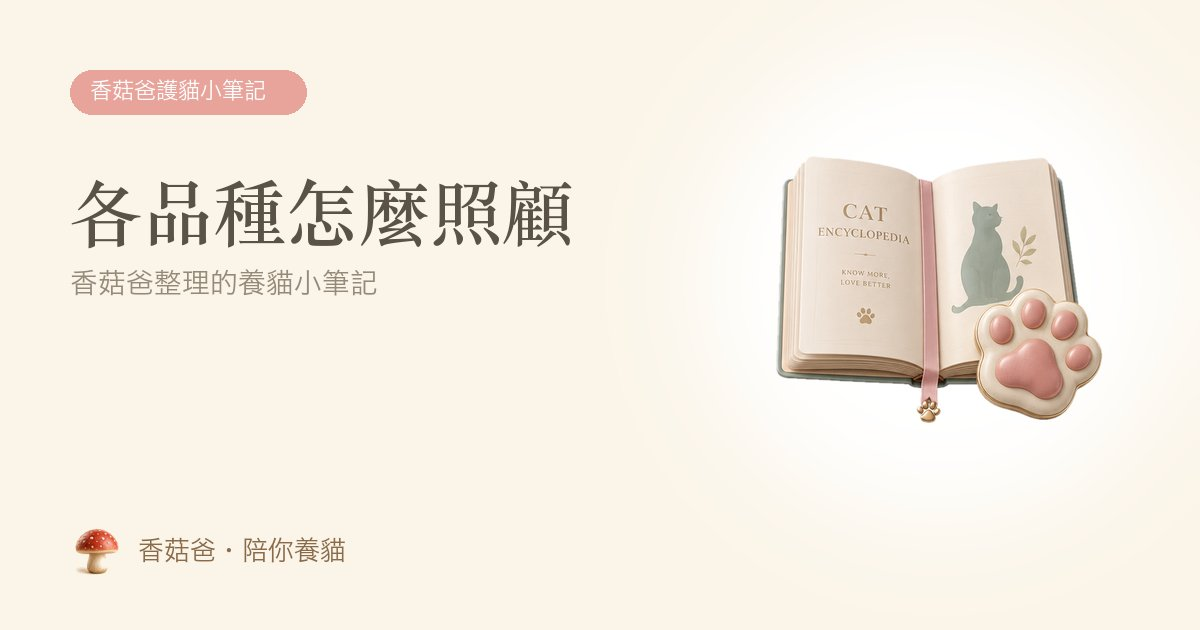
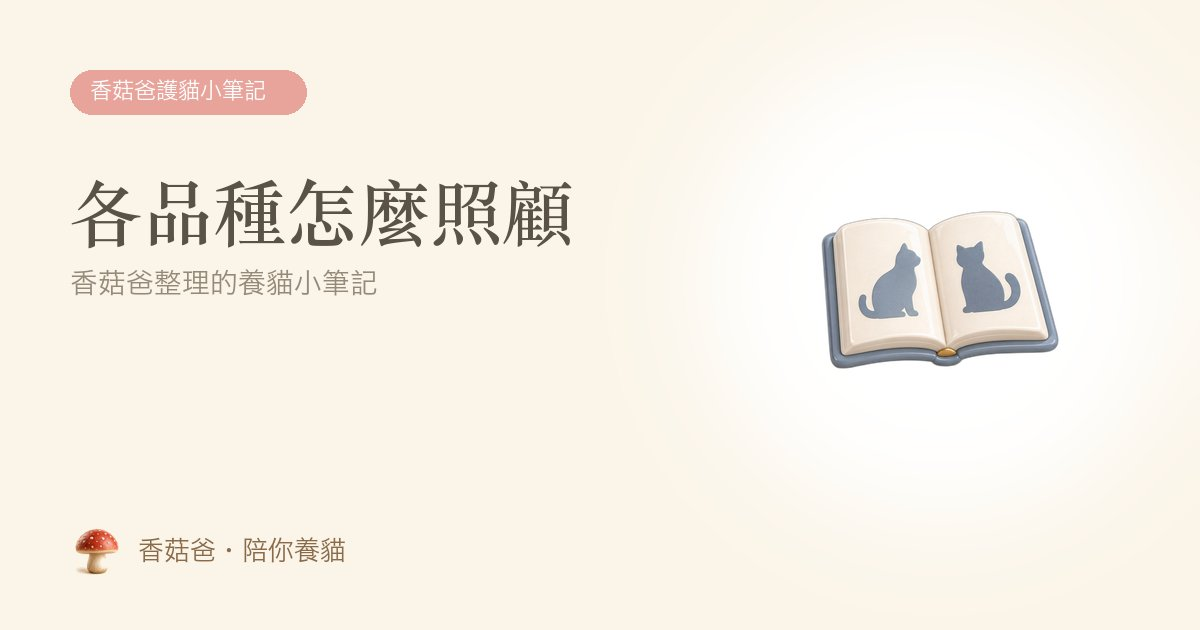
攻略剩下 5 個舊圖示＋熟齡貓 換成藍灰 3D 圖示，封面圖同步更新

Changed region(s): [[0.6475, 0.2413, 0.925, 0.6635]]

diff --git a/index.html b/index.html
@@ -786,7 +786,7 @@
         <section class="tab-panel" id="tab-wiki">
             <div class="section-title">🆕 最近更新 <small style="font-weight:600;color:var(--text-soft);font-size:11px;margin-left:4px">10/31</small></div>
             <div class="wk-new">
-                <a href="senior.html"><img src="icons/wk/age-care.png?v=1" alt="" loading="lazy"><b>熟齡貓 7 歲以後</b></a>
+                <a href="senior.html"><img src="icons/wk/senior.png?v=1" alt="" loading="lazy"><b>熟齡貓 7 歲以後</b></a>
                 <a href="vaccine.html"><img src="icons/wk/vaccine.png?v=1" alt="" loading="lazy"><b>疫苗怎麼打</b></a>
                 <a href="neuter.html"><img src="icons/wk/neuter.png?v=1" alt="" loading="lazy"><b>要不要結紮</b></a>
                 <a href="litter.html"><img src="icons/wk/litter.png?v=1" alt="" loading="lazy"><b>貓砂怎麼選</b></a>
@@ -808,12 +808,12 @@
                 <a class="wk" href="vaccine.html" title="三合一・五合一・狂犬病・幼貓時間表・打前打後"><img class="wk-img" src="icons/wk/vaccine.png?v=1" alt="" loading="lazy"><b>疫苗怎麼打</b></a>
                 <a class="wk" href="deworm.html" title="體外 vs 體內・室內貓要不要・產品對照"><img class="wk-img" src="icons/wk/deworm.png?v=1" alt="" loading="lazy"><b>驅蟲怎麼選</b></a>
                 <a class="wk" href="neuter.html" title="發情叫・噴尿・想往外跑・時機和補助"><img class="wk-img" src="icons/wk/neuter.png?v=1" alt="" loading="lazy"><b>要不要結紮</b></a>
-                <a class="wk" href="貓咪熱量計算機/sterilization_guide.html" title="各縣市補助與流程整理"><img class="wk-img" src="icons/sterilize.png?v=3" alt=""><b>結紮補助多少</b></a>
-                <a class="wk" href="貓咪熱量計算機/chip_guide.html" title="寵物登記與晶片規定一次看"><img class="wk-img" src="icons/chip.png?v=3" alt=""><b>晶片怎麼打</b></a>
+                <a class="wk" href="貓咪熱量計算機/sterilization_guide.html" title="各縣市補助與流程整理"><img class="wk-img" src="icons/wk/subsidy.png?v=1" alt="" loading="lazy"><b>結紮補助多少</b></a>
+                <a class="wk" href="貓咪熱量計算機/chip_guide.html" title="寵物登記與晶片規定一次看"><img class="wk-img" src="icons/wk/chip.png?v=1" alt="" loading="lazy"><b>晶片怎麼打</b></a>
             </div>
             <div class="section-title">🍽 吃吃喝喝</div>
             <div class="wk-grid g-sand">
-                <a class="wk" href="貓咪熱量計算機/nutrition_guide.html" title="哪些不能吃・水分・蛋白質・脂肪・碳水"><img class="wk-img" src="icons/nutrition.png?v=3" alt=""><b>吃什麼才對</b></a>
+                <a class="wk" href="貓咪熱量計算機/nutrition_guide.html" title="哪些不能吃・水分・蛋白質・脂肪・碳水"><img class="wk-img" src="icons/wk/nutrition.png?v=1" alt="" loading="lazy"><b>吃什麼才對</b></a>
                 <a class="wk" href="picky-eater.html" title="五個徵兆自測・七個原因・五個改善方法・七天進度"><img class="wk-img" src="icons/wk/picky-eater.png?v=1" alt="" loading="lazy"><b>挑食怎麼辦</b></a>
                 <a class="wk" href="can-ng.html" title="卡拉膠・膠類・澱粉・乾糧 4 個地雷"><img class="wk-img" src="icons/wk/can-ng.png?v=1" alt="" loading="lazy"><b>成分怎麼看</b></a>
                 <a class="wk" href="water-tips.html" title="流動水・溫水・濕食・冰塊遊戲 每天多喝一口"><img class="wk-img" src="icons/wk/water-tips.png?v=1" alt="" loading="lazy"><b>騙喝水 12 招</b></a>
@@ -832,7 +832,7 @@
             </div>
             <div class="section-title">📈 成長與年紀</div>
             <div class="wk-grid g-blue">
-                <a class="wk" href="senior.html" title="健檢頻率・6 個變化・居家調整・飲食"><img class="wk-img" src="icons/wk/age-care.png?v=1" alt="" loading="lazy"><b>7 歲以後注意</b></a>
+                <a class="wk" href="senior.html" title="健檢頻率・6 個變化・居家調整・飲食"><img class="wk-img" src="icons/wk/senior.png?v=1" alt="" loading="lazy"><b>7 歲以後注意</b></a>
                 <a class="wk" href="貓咪熱量計算機/age_care.html" title="幼貓／成貓／熟齡，各階段照顧重點"><img class="wk-img" src="icons/wk/age-care.png?v=1" alt="" loading="lazy"><b>幾歲注意什麼</b></a>
                 <a class="wk" href="bones.html" title="幼貓・成貓・年長 三階段重點・關節保養"><img class="wk-img" src="icons/wk/bones.png?v=1" alt="" loading="lazy"><b>骨頭與關節</b></a>
                 <a class="wk" href="weight-log.html" title="每週記一筆・自動畫曲線・存在你手機裡"><img class="wk-img" src="icons/wk/weight-log.png?v=1" alt="" loading="lazy"><b>記錄體重</b></a>
@@ -842,13 +842,13 @@
                 <a class="wk" href="body-language.html" title="九個小動作・12 個貓語・動畫・小測驗"><img class="wk-img" src="icons/wk/body-language.png?v=1" alt="" loading="lazy"><b>牠在想什麼</b></a>
                 <a class="wk" href="sleep-trust.html" title="母雞蹲到翻肚睡 五顆星排行榜"><img class="wk-img" src="icons/wk/sleep-trust.png?v=1" alt="" loading="lazy"><b>睡姿看信任</b></a>
                 <a class="wk" href="貓咪熱量計算機/cat_sounds.html" title="真實叫聲・10 種喵叫需求對照"><img class="wk-img" src="icons/wk/cat-sounds.png?v=1" alt="" loading="lazy"><b>喵喵在說什麼</b></a>
-                <a class="wk" href="貓咪熱量計算機/breed_guide.html" title="22 個品種特性與照顧重點"><img class="wk-img" src="icons/wiki.png?v=3" alt=""><b>品種照顧</b></a>
+                <a class="wk" href="貓咪熱量計算機/breed_guide.html" title="22 個品種特性與照顧重點"><img class="wk-img" src="icons/wk/breed.png?v=1" alt="" loading="lazy"><b>品種照顧</b></a>
                 <a class="wk" href="shorthair-vs.html" title="八個地方一次分清楚・照顧重點"><img class="wk-img" src="icons/wk/shorthair-vs.png?v=1" alt="" loading="lazy"><b>美短 vs 英短</b></a>
                 <a class="wk" href="mushroom-daily.html" title="八歲貓的真實日常・六餐時間表・自我對照"><img class="wk-img" src="icons/wk/mushroom-daily.png?v=1" alt="" loading="lazy"><b>香菇的一天</b></a>
             </div>
             <div class="section-title">🏠 居家安全</div>
             <div class="wk-grid g-green">
-                <a class="wk" href="貓咪熱量計算機/household_safety.html" title="居家用品避雷，哪些成分要留意"><img class="wk-img" src="icons/household.png?v=3" alt=""><b>家裡危險物</b></a>
+                <a class="wk" href="貓咪熱量計算機/household_safety.html" title="居家用品避雷，哪些成分要留意"><img class="wk-img" src="icons/wk/household.png?v=1" alt="" loading="lazy"><b>家裡危險物</b></a>
                 <a class="wk" href="summer_checklist.html" title="在家降溫・外出注意・中暑警訊"><img class="wk-img" src="icons/wk/summer.png?v=1" alt="" loading="lazy"><b>夏天怕熱怎麼辦</b></a>
             </div>
         </section>
